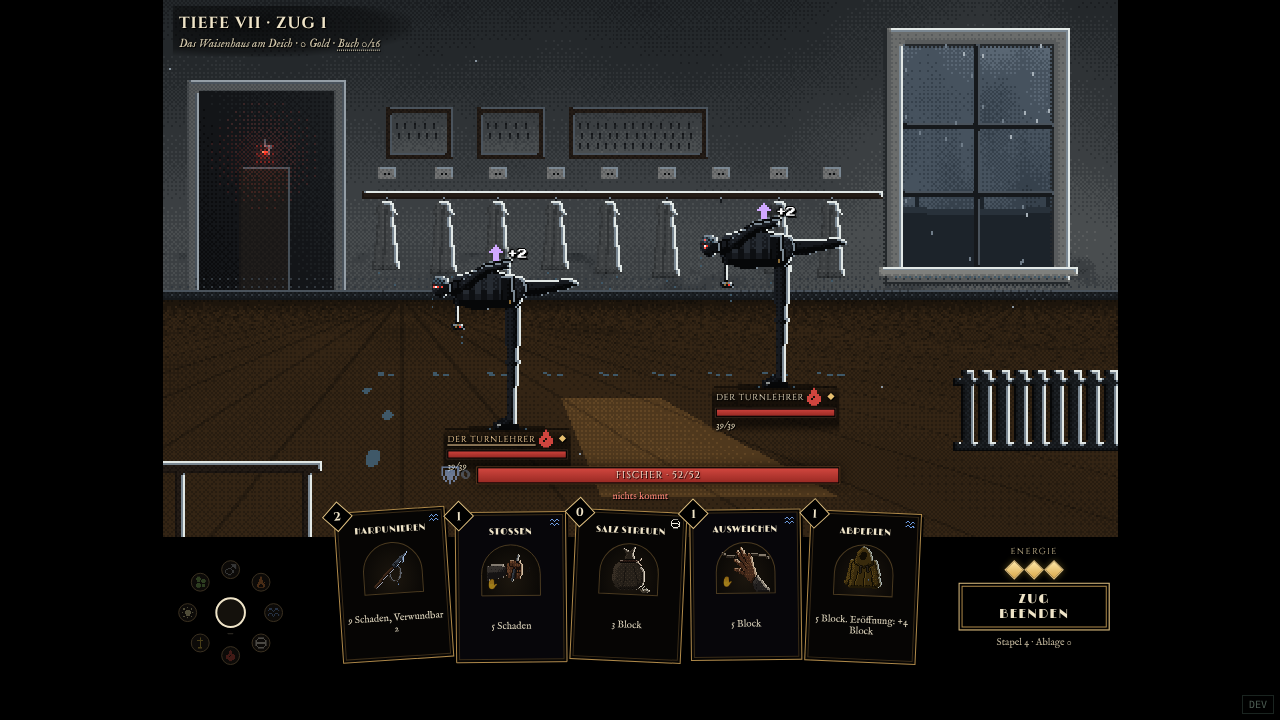
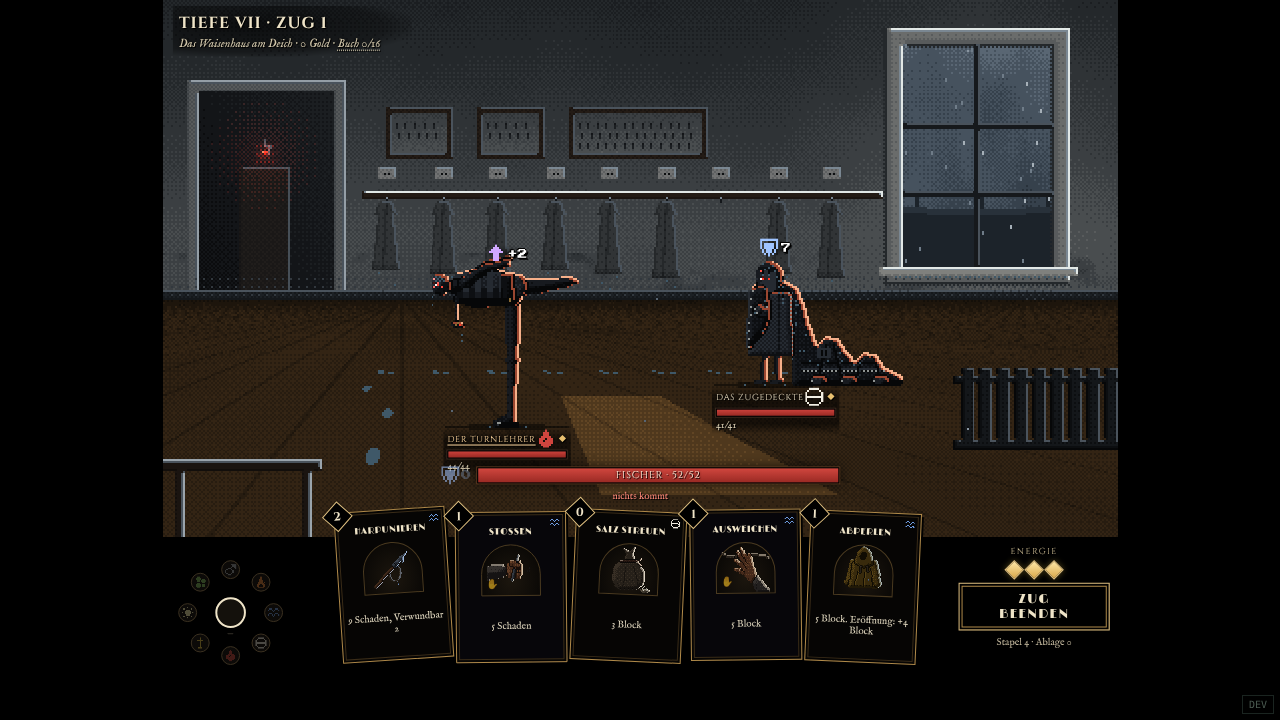
Zugabe: Waisenhaus fertig (Note 4, warmes Randlicht im Kampf); Akt V mit Wahl Rast oder Ereignis; Noten Waage
Generischer Bot danach 56 % (100 Seeds).

Claude-Session: https://claude.ai/code/session_01TghvEfjLh3w7y1uAeKR46M

diff --git a/prototype/js/scenes/world/waisenhaus.js b/prototype/js/scenes/world/waisenhaus.js
@@ -210,9 +210,9 @@ function schlafsaal(K, cfg) {
   const n = cfg.dunkel ? 0 : 2 + Math.round(fr * 5);
   for (let i = 0; i < n; i++) { const X = -1.3 + i * 0.45 + (i > 2 ? 0.95 : 0); const [x, y] = Q(P, X, 0, ze - 0.4); kind(K, 2, Math.round(x), Math.round(y), 21 + (i % 2) * 2, 0.15); }
   // Vordergrund: links das Fußteil eines Betts angeschnitten, rechts ein Stuhl mit gefalteter Wäsche
-  { const v = B.maske(); v.rect(-M, 196, 54, 5); v.rect(-M, 214, 54, 4); v.rect(46, 192, 5, H + M - 192); for (let i = 0; i < 4; i++) v.rect(4 + i * 12, 201, 3, 13); K.form(5, v, 0, { k: EISEN, r: RAND, ton: 2, fase: 1, rand: 2 }); }
-  { const v = B.maske(); v.rect(436, 226, 40, 5); v.rect(440, 231, 4, 40); v.rect(468, 231, 4, 40); v.rect(468, 176, 4, 50); v.rect(466, 176, 8, 4); K.form(5, v, 0, { k: HOLZ, r: RAND, ton: 2.6, fase: 1, rand: 2 });
-    const w = B.maske(); w.rect(440, 218, 26, 8); w.rect(442, 214, 22, 4); K.form(5, w, 0, { k: LEINEN, r: RAND, ton: 2.4, fase: 1, rand: 1 }); }
+  { const v = B.maske(); v.rect(-M, 196, 54, 5); v.rect(-M, 214, 54, 4); v.rect(46, 192, 5, H + M - 192); for (let i = 0; i < 4; i++) v.rect(4 + i * 12, 201, 3, 13); K.form(5, v, 0, { k: EISEN, r: RAND_D, ton: 2, fase: 1, rand: 2 }); }
+  { const v = B.maske(); v.rect(436, 226, 40, 5); v.rect(440, 231, 4, 40); v.rect(468, 231, 4, 40); v.rect(468, 176, 4, 50); v.rect(466, 176, 8, 4); K.form(5, v, 0, { k: HOLZ, r: RAND_D, ton: 2, fase: 1, rand: 2 });
+    const w = B.maske(); w.rect(440, 218, 26, 8); w.rect(442, 214, 22, 4); K.form(5, w, 0, { k: LEINEN, r: RAND_D, ton: 1.9, fase: 1, rand: 1 }); }
   B.nebel(K.e[1], { y0: vy - 30, y1: vy + 8, col: B.mix(pal.nebel[1], K.fern, 0.4), dichte: 0.18, xs: [-20, 500, 60], seed: 3 });
   luft(K);
   K.reihen = [{ y: 166, skala: 0.9, nebel: 0.25 }, { y: 190, skala: 1, nebel: 0.1 }, { y: 213, skala: 1, nebel: 0 }];
@@ -279,7 +279,7 @@ function flur(K, cfg) {
   // Sockelleiste
   { const l = B.maske(); l.rect(-M, vy - 4, W + 2 * M, 5); K.form(1, l, 0, { k: SOCKEL, r: RAND_D, ton: 2.6, fase: 1, rand: 1 }); }
   // Vordergrund: links eine Bank angeschnitten, rechts der Heizkörper unter dem Fenster
-  { const v = B.maske(); v.rect(-M, 232, 92, 6); v.rect(6, 238, 5, 40); v.rect(70, 238, 5, 40); K.form(5, v, 0, { k: HOLZ, r: RAND, ton: 2.6, fase: 1, rand: 2 }); }
+  { const v = B.maske(); v.rect(-M, 232, 92, 6); v.rect(6, 238, 5, 40); v.rect(70, 238, 5, 40); K.form(5, v, 0, { k: HOLZ, r: RAND_D, ton: 2, fase: 1, rand: 2 }); }
   { const v = B.maske(); for (let i = 0; i < 9; i++) v.rect(402 + i * 9, 186, 6, 40); v.rect(398, 222, 86, 4); v.rect(398, 190, 86, 3); K.form(4, v, 0, { k: EISEN, r: RAND_D, ton: 1.8, fase: 1, rand: 1, schatten: 1 }); }
   B.nebel(K.e[1], { y0: vy - 14, y1: vy + 8, col: B.mix(pal.nebel[1], K.fern, 0.4), dichte: 0.12, xs: [-20, 500, 60], seed: 5 });
   luft(K);
@@ -332,8 +332,8 @@ function turnsaal(K, cfg) {
   K.bodenStoffe(vy + 1, H + M, mats, (x, y) => { const Z = P.z(y + 0.5), X = (x + 0.5 - P.vx) * Z / P.h; if (X < xl || X > xr) return -1; for (const s of nass) { const dx = (X - s[0]) / s[2], dz = (Z - s[1]) / (s[2] * 1.9); if (dx * dx + dz * dz < 1) return 1; }
     for (const [kx, kz] of kreide) for (const s of [-0.07, 0.07]) { const dx = (X - kx - s) / 0.06, dz = (Z - kz) / 0.12; const d = dx * dx + dz * dz; if (d < 1.2 && d > 0.55) return 2; } return 0; });
   // Vordergrund: links ein Seil, das bis in den Boden hängt; unten eine Matte angeschnitten
-  { const v = B.maske(); v.rect(40, -M, 3, 210 + M); v.ell(41, 214, 5, 3); K.form(5, v, 0, { k: HOLZ, r: RAND, ton: 2.8, fase: 0, rand: 2 }); }
-  { const v = B.maske(); v.poly([[300, H + M], [318, 246], [480 + M, 244], [480 + M, H + M]]); K.form(5, v, 0, { k: DECKE, r: RAND, ton: 2.4, fase: 2, rand: 2, muster: (x, y) => ((x + y) % 7 === 0 ? -0.6 : 0) }); }
+  { const v = B.maske(); v.rect(40, -M, 3, 210 + M); v.ell(41, 214, 5, 3); K.form(5, v, 0, { k: HOLZ, r: RAND_D, ton: 2.8, fase: 0, rand: 2 }); }
+  { const v = B.maske(); v.poly([[300, H + M], [318, 246], [480 + M, 244], [480 + M, H + M]]); K.form(5, v, 0, { k: DECKE, r: RAND_D, ton: 1.9, fase: 2, rand: 2, muster: (x, y) => ((x + y) % 7 === 0 ? -0.6 : 0) }); }
   // rotes Licht: über der Tür der Umkleide links hinten
   { const [x, y] = Q(P, -3.4, 1.6, ze); nachtlicht(K, Math.round(x), Math.round(y), 0, { r: 26 }); const tm = B.maske(); tm.poly([Q(P, -3.8, 0, ze), Q(P, -3.8, 1.4, ze), Q(P, -3.0, 1.4, ze), Q(P, -3.0, 0, ze)]); K.form(0, tm, 0.2, { k: HOLZ, r: RAND_D, ton: 1.6, fase: 1, rand: 1 }); }
   B.nebel(K.e[1], { y0: vy - 24, y1: vy + 8, col: B.mix(pal.nebel[1], K.fern, 0.4), dichte: 0.15, xs: [-20, 500, 60], seed: 7 });

diff --git a/docs/auftrag-2/biome/waisenhaus.md b/docs/auftrag-2/biome/waisenhaus.md
@@ -17,7 +17,7 @@ Hinter Saltmoor, oben auf dem Deich, steht das Waisenhaus von 1890: zwei Stockwe
 
 - **Wahrzeichen:** der Schlafsaal: vierzig Eisenbetten in zwei Reihen, gemacht, die Decken auf Kante, über jedem Bett ein Emailschild mit einer Nummer.
 - **Falsches Detail:** Beim Appell antworten mehr Kinder, als Betten da sind, und alle haben nasses Haar. Im Bild: Die Nummernschilder an der Stirnwand gehen weiter, wo keine Betten mehr stehen, bis unter die Decke, und darunter stehen die, für die kein Bett da ist (mit `fremdheit` mehr). Auf jedem Kissen ein nasser Fleck in der Größe eines Kopfes. Nasse Fußspuren führen von der Tür zu den Betten, nicht von ihnen weg. Nie erklärt.
-- **Palette:** kaltes Kalkweiß und Sturmgrau (Wände, Fensterlicht), Linoleum-Ocker (Boden, dunkel), Eisen fast schwarz. **Ein einziges rotes Licht:** das Nachtlicht in rotem Glas über der Tür zum Schlafsaal (in jeder Variante genau eins). Sprites: Körper Sturmgrau (`#060708 … #252a31`), Randlicht kaltes Kalkweiß (`#7a8792` / `#e2e8e6`), Augen rot (`#ff3b2b`, Kern `#fff4ee`), dazu sparsam `kalk` (Leinen), `ocker` (Messing), `nass` (Wasserglanz).
+- **Palette:** kaltes Kalkweiß und Sturmgrau (Wände, Fensterlicht), Linoleum-Ocker (Boden, dunkel), Eisen fast schwarz. **Ein einziges rotes Licht:** das Nachtlicht in rotem Glas über der Tür zum Schlafsaal (in jeder Variante genau eins). Sprites: Körper Sturmgrau (`#060708 … #252a31`), **Randlicht warm, Rot-Ocker vom Nachtlicht** (`#9a4630` / `#f6b08a`): ein Ton, der im kalten, grauen Hintergrund nirgends vorkommt, damit die Gegner sich vom Mittelgrund lösen. Augen rot (`#ff3b2b`, Kern `#fff4ee`), dazu sparsam `kalk` (Leinen), `ocker` (Messing), `nass` (Wasserglanz). Der Hintergrund behält sein kaltes Randlicht; Betten, Sprossenwand, Seile, Nachthemden am Haken und Vordergrund sind dort gedämpft (dunkle Massen, schwache Kanten), die Fenster sitzen über der Gegner-Zone.
 - **Abgrenzung im Akt:** Kapelle = Bernstein und grünes Wasserlicht, Kloster = Pergament und Silberhimmel, Grotte = Wachsgelb und Kerzenrot auf Schiefer, Glockengießerei = Rot und Schwarz mit Licht von unten. Das Waisenhaus ist der einzige **kalte, graue, trockene Innenraum** des Akts: gerade Linien, Wiederholung (Betten, Haken, Schilder, Fußpaare), hohe Fenster als Lichtquelle von der Seite, und statt vieler Lichter nur das eine rote. Keine Gewölbe, kein Wasser im Bild, nur Nässe.
 - **Licht:** Das Gegenlicht von oben rechts sind die Fenster (Sturmlicht). Es fällt als helle Rechtecke auf das Linoleum und die linke Wand. Das rote Nachtlicht sitzt immer hinten oder seitlich, klein.
 - **Krämer:** Der Hausmeister, im Heizungskeller zwischen Koks und einem Regal mit Fundsachen der Kinder, an jeder ein Zettel mit einer Nummer. Gewöhnlicher Krämer (Tausch, Leihe und Spiegel gibt es im Akt schon).
@@ -178,10 +178,10 @@ Je Punkt 1–5: Silhouette / Licht / Pixel / Konzept / Biom / Im Spiel. Gesamt =
 
 | Bild | S | L | P | K | B | Sp | Gesamt | Begründung |
 |---|---|---|---|---|---|---|---|---|
-| Nachtschwester | 5 | 4 | 4 | 4 | 5 | 4 | **4** | Der Ring mit dem Loch in der Mitte und den Schlüsseln wie Zähnen gibt es sonst nicht; die helle Haube und der Kragen gliedern die Figur, die Schürze hebt sich ab. Das Kleid bleibt rechts eine große dunkle Fläche, nur von drei Falten gegliedert; die Haube ist als 50-%-Dither leicht unruhig. |
+| Nachtschwester | 5 | 4 | 4 | 4 | 5 | 4 | **4** | Der Ring mit dem Loch in der Mitte und den Schlüsseln wie Zähnen gibt es sonst nicht; Haube und Kragen in hellem Leinen, Schürze, Saumband und warme Innenkanten gliedern die Figur. Das Kleid bleibt rechts die größte dunkle Fläche. |
 | Turnlehrer | 5 | 4 | 4 | 4 | 4 | 5 | **4** | Die stärkste Silhouette des Bioms: ein „T“ auf einem zu langen Bein, im Spiel sofort lesbar, der Angriff kippt den ganzen Leib wie einen Hammer. Das Ringelhemd ist im Spiel nur als feine Streifen zu sehen, das Gesicht klein; dass er Turnlehrer war, sagt vor allem die Pose. |
 | Das Zugedeckte | 4 | 4 | 4 | 4 | 5 | 4 | **4** | Erst im dritten Anlauf (Fels, Gespenst, dann Kind mit Schleppe): Jetzt liest sich ein Kind, hinter dem die Decke über Buckel schleift, mit Händen am Saum. In der hinteren Reihe ist es klein, die Hände sind dann nur noch helle Punkte. |
-| Die Zwillinge | 4 | 4 | 4 | 4 | 5 | 4 | **4** | Knapp. Zwei Kinder Hand in Hand mit einem einzigen langen Schatten; im Spiel liest sich der Schatten auf dem Ocker-Linoleum gut, auf dunklem Grund kaum. Nach einer Überarbeitung (größer, Gesicht frei, Haar nur hinten) keine Kapuzen-Mönche mehr; die Gesichter bleiben klein. |
+| Die Zwillinge | 4 | 4 | 4 | 4 | 5 | 4 | **4** | Knapp. Zwei Kinder Hand in Hand mit einem einzigen langen Schatten; im Spiel liest sich der Schatten auf dem Ocker-Linoleum gut, auf dunklem Grund kaum. Nach zwei Überarbeitungen (größer, Gesicht frei, Haar nur hinten; warmes Randlicht, Saum und Knopfleiste) stehen sie nicht mehr grau auf grau vor den Betten; die Gesichter bleiben klein. |
 | Heimleiterin (Wächter) | 5 | 5 | 4 | 5 | 5 | 5 | **4** | Im Spiel steht sie dunkel vor dem ruhigen, hellen Bogenfenster, die klarste Stelle des Bioms; die Reihe der Kinder daneben erzählt den Appell ohne Text. Pixel 4: Der Rock ist trotz Falten und breiter Lichtkante eine große Fläche, das Buch ist eher eine Schraffur als Schrift. |
 | Hintergrund V0 Schlafsaal | 4 | 4 | 4 | 5 | 5 | 4 | **4** | Zwei Reihen Betten mit Kissen und nassen Flecken, Fenster mit Regen, hinten die Nummern ohne Betten und die Wartenden: Wahrzeichen und falsches Detail ohne Text. Der Gang unten ist trotz Läufer und Spuren eine ruhige braune Fläche, das nächste Bett links wirkt flach. |
 | Hintergrund V1 Flur | 5 | 4 | 4 | 5 | 5 | 4 | **4** | Die stärkste Variante: Hakenleiste mit Nachthemden, Nummern, das zu breite Foto von 1913, Fenster zum Deich, das rote Licht in der Tür. Der Boden davor ist leer bis auf Spuren und Lichtfleck. |
@@ -190,6 +190,8 @@ Je Punkt 1–5: Silhouette / Licht / Pixel / Konzept / Biom / Im Spiel. Gesamt =
 | **Hintergrund gesamt** | | | | | | | **4** | |
 | Item-Icons | | | | | | | **4** | Pfeife mit Schnur und Tropfen, Ring mit Schlüsseln (einer aus Messing), gefaltetes Nachthemd mit roter Nummer und nasser unterer Hälfte, aufgeschlagenes Folio mit Messingecken. Die rote Tinte im Buch ist bei 32 px nicht zu sehen. |
 | Ereignisbilder | | | | | | | **4** | Fenster zum Deich, Wäschekammer und Nachtlicht klar (je eine helle Stelle, viel Fläche); Schlafsaal und Turnsaal knapp (Betten und Kreide fein); die Reihe erst nach Überarbeitung (Kinder vorher als Haken lesbar, jetzt größer und breiter). |
+
+**Nacharbeit nach Rückmeldung (Kampf-Foto 3,5, „grau auf grau“):** Randlicht der Figuren von kaltem Kalkweiß auf warmes Rot-Ocker umgestellt (kommt im Hintergrund nicht vor), Kleider innen weiter gegliedert (Saumband, Knopfleiste, Leinen statt Randlicht-Dither in Haube und Kragen); im Hintergrund Bettgestelle, Decken, Kissen, Sprossenwand, Seile, Pferd, Nachthemden am Haken, Heizkörper und alle Vordergrundteile gedämpft (dunkle Massen, schwache Kanten), Fenster im Schlafsaal und Turnsaal höher, Lichtflecken auf der linken Wand über die Gegner-Zone gelegt. Alle drei Kampf-Varianten mit allen vier Gegnern: [im-spiel-kampf-alle-vier.png](../bilder/Zugabe/waisenhaus/im-spiel-kampf-alle-vier.png) (Schlafsaal), [-v1](../bilder/Zugabe/waisenhaus/im-spiel-kampf-alle-vier-v1.png) (Flur), [-v2](../bilder/Zugabe/waisenhaus/im-spiel-kampf-alle-vier-v2.png) (Turnsaal). Im Spiel jetzt 4: Jeder Gegner hat eine warme Kontur, die vor dem grauen Saal sofort steht.
 
 Nichts unter 4. Überarbeitet wurden unterwegs: Nachtschwester (Haube dunkel wie eine Kapuze → helles Leinen; Schürzenkante als durchgehende Naht → gedithert; Idle unruhig), Turnlehrer (Bein ragte aus dem Bild, Schnur unsichtbar), Zugedecktes (zweimal neu, siehe oben; Lichtfarben über 6 %, Idle unruhig), Zwillinge (Kapuzen-Mönche → Kinder; größer), Heimleiterin (Kinder als Block, Hals zu lang, Buch als Gitter, Idle unruhig), Hintergrund (Boden übermalte Betten, Wände fehlten unten, Raum zu breit und leer, Stirnwand zu fern, Kinder dort unsichtbar, Sprossenwand wie ein Zaun, Bogensprosse als Heiligenschein hinter dem Kopf der Heimleiterin).
 

diff --git a/docs/auftrag-2/fortschritt.md b/docs/auftrag-2/fortschritt.md
@@ -16,7 +16,7 @@ Wird vom Agenten geführt. Neueste Einträge oben in jedem Abschnitt.
 | M7 Biome Akt III bis V | fertig | Wald, Gezeitenwerk (Akt III), Walkathedrale, Glasmeer (Akt IV), Ufer unten, Pforte neu, Finale neu (Akt V); neue Gegner Salz, Stadt, Eis; alle Noten 4. Kern: Kniffe teurer/kopie/takt/voraus/verborgen, Pendel, Tausch-/Leih-/Spiegel-Krämer, Vorgänger, Ergänzungspakete |
 | M8 Ereignisse und Balance | fertig | ≥5 Ereignisse je Biom, 15 biomübergreifende, Test aller Wahlen; Builds 44–72 % (Ø 59 %), generischer Bot 65 %, kein Akt über 35 % der Niederlagen; Kampf Ø 4,1–4,5 Züge |
 | M9 Abschluss | fertig | Geklickter Run (40 Stationen), Galerie und Artboard erweitert, Bericht unten |
-| Zugabe | läuft | Punkte 1–4 der Liste erledigt: vier neue Biome (Leuchtturmhof, Glockengießerei, Ziegelgruben, Mond), Varianten b vollständig, alle 133 Ereignisse mit Bild (Note 4), zwei neue Builds Ballast und Kollekte mit 10 Reliquien. Kern: `unverw`, `ruf` mit Liste, nächste Schwachstelle, Störkarten-Name. Weiter: drei Biome Waisenhaus (II), Funkstation (IV), Waage am Grund (V) |
+| Zugabe | läuft | Punkte 1–4 der Liste erledigt, dazu drei weitere Biome: Waisenhaus am Deich (II), Funkstation am Pol (IV), Die Waage am Grund (V, mit Elite und Finale-Szene). Jetzt 24 Biome, alle Note 4; alle 151 Ereignisse mit Bild; 8 Builds 40–62 %; Akt V mit Ereignis-Knoten |
 
 ## Einträge je Meilenstein
 
@@ -217,6 +217,12 @@ Allgemeiner Autospieler 30 Seeds: 47 %. **Korrigierte Ausreißer:** Brackwasser 
 | Funkstation: Funker, Telegrafistin, Mastkletterer, Rauschen (neu) | Funkstation | 4 (nach Rückmeldung: kaltes Randlicht statt Sepia, im Kampf vorher 3,5) | [Zugabe](bilder/Zugabe/funkstation/im-spiel-kampf-alle-vier.png) |
 | Der Sender, zwei Phasen, Funkstille unverwundbar (Wächter, neu) | Funkstation | 4 (vor heller Fensterwand klar) | [Zugabe](bilder/Zugabe/funkstation/im-spiel-waechter-p2.png) |
 | Hintergrund Funkstation (Mast, Funkraum, Eisloch, Senderaum) + 6 Ereignisbilder | Funkstation | 4 (Funkraum jetzt karger, dafür ruhig hinter den Gegnern) | [Zugabe](bilder/Zugabe/funkstation/hintergrund-varianten.png) |
+| Waisenhaus: Nachtschwester, Turnlehrer, Zugedecktes, Zwillinge (neu) | Waisenhaus | 4 (nach Rückmeldung: warmes rotes Randlicht statt Kalkweiß, im Kampf vorher 3,5) | [Zugabe](bilder/Zugabe/waisenhaus/im-spiel-kampf-alle-vier.png) |
+| Die Heimleiterin mit der Kinderreihe (Wächter, neu) | Waisenhaus | 4 (dunkel vor hellem Bogenfenster) | [Zugabe](bilder/Zugabe/waisenhaus/im-spiel-waechter.png) |
+| Hintergrund Waisenhaus (Schlafsaal, Flur der Nummern, Turnsaal, Halle) + 6 Ereignisbilder | Waisenhaus | 4 | [Zugabe](bilder/Zugabe/waisenhaus/hintergrund-varianten.png) |
+| Waage am Grund: Schlagbaum, Schreiber, Tarierte, Warteschlange (neu) | Waage | 4 (im Kampf gut lesbar, goldenes Randlicht vor grünem Wasserlicht) | [Zugabe](bilder/Zugabe/waage/im-spiel-kampf.png) |
+| Der Oberzöllner (Elite Akt V, neu) | Waage | 4 (Waage auf dem Kopf, ruft die Beamten) | [Zugabe](bilder/Zugabe/waage/im-spiel-elite-ruft.png) |
+| Hintergrund Waage (Halle, Schalter, Unter der Schale, Finale, Ankunft) + 6 Ereignisbilder | Waage | 4 (Finale: türkiser Boss vor hellem Skalenbogen stark; Rast ohne eigene Komposition) | [Zugabe](bilder/Zugabe/waage/im-spiel-finale.png) |
 | Reliquien Ballast und Kollekte (10), Bleigürtel, Geldkatze, Handgriffe Beschweren, Münzwurf (neu) | alle | 4 (knapp: Ballaststein schlichtes Oval, Fährgeld erinnert an Mond, Hand bei Beschweren krallig) | [Zugabe](bilder/Zugabe/reliquien/kontaktbogen.png) |
 | Ereignisbilder Charge 1: 15 biomübergreifende, 6 Hafen (neu) | alle, Hafen | 4 (Kreidezeichen eher grafisch; Hafen etwas gleichförmig nachtblau) | [Zugabe](bilder/Zugabe/ereignisse/kontakt-1.png) |
 | Ereignisbilder Akt I: Moor 5, Fabrik 7, Kurhaus 6, Nachtzug 7, Leuchtturm 7 (neu) | Akt I | 4 (selbst geprüft; stark: Kühlhaus, Kontrolle, Gedeck; knapp: Kurve, Lupe) | [Zugabe](bilder/Zugabe/ereignisse/kontakt-2-fabrik.png) |
@@ -228,6 +234,7 @@ Allgemeiner Autospieler 30 Seeds: 47 %. **Korrigierte Ausreißer:** Brackwasser 
 
 | Datum | Meilenstein | Entscheidung | Grund |
 |---|---|---|---|
+| 2026-11-05 | Zugabe | Akt V: zweite Ebene `rast_v` = Wahl Rast oder Ereignis (vorher nur Rast) | Akt V hatte keinen Ereignis-Knoten; die Ereignisse von Ufer und Waage (und Pforte über die allgemeinen) kamen im normalen Run nie vor (Hinweis des Waage-Agenten) |
 | 2026-11-05 | Zugabe | Wächter-Reliquien: eine der drei passt zum erkannten Build (über ihre Eigenschaft), die anderen frei. Danach Build-Bots je 50 Seeds: Glutnest 52, Brackwasser 40, Bollwerk 50, Aderlass 52, Kettenwerk 48, Hagel 50, Ballast 50, Kollekte 62 %; generischer Bot 60 % | Mit 39 Reliquien kamen die eigenen Reliquien der alten Builds zu selten (Brackwasser 34 %, Kettenwerk 38 %). Jetzt alle acht in oder knapp über 40–60 %, keiner über 70 %, die Erkennung ist gestiegen (44–84 %) |
 | 2026-11-05 | Zugabe | Zwei neue Builds Ballast (unspielbare Karten als Treibstoff) und Kollekte (Gold im Kampf, Schlagwort Zoll) mit 10 Reliquien; Brackwasser (34 %) und Kettenwerk (38 %) danach knapp unter 40 % gelassen | Ziel 04-deckbau §9: 40–60 %, keiner unter 25 %. Der größere Reliquien-Pool (29 → 39) verdünnt die alten Builds; neue Builds 46 % und 56 %, generischer Bot 61 %. Nachziehen wäre eine Gewichtung der Reliquien-Angebote nach erkanntem Build; vorerst offen |
 | 2026-11-05 | Zugabe 4 | Zwei neue Builds Ballast (unspielbare Karten als Treibstoff) und Kollekte (Gold als Treibstoff), je 5 Reliquien und 2 normale Stücke; neue Schlagworte `zoll`, `gold`, Sonder `ueber_bord`, fx `ballast`; Build-Erkennung zählt jetzt die Eigenschaften aller Items (Reliquie 7, sonst 1,5), nicht nur die neuen | Die 10 neuen Reliquien verdünnen den Pool (29 → 39) und senkten die Erkennung der alten Builds um bis zu 24 Punkte; eine Reliquie definiert laut 04 §3 den Build. Profile der neuen Builds nur mit ihren eigenen Stücken, weil die Bots mit schwachen Allerweltsitems im Profil unter 35 % fielen. Details [builds.md](builds.md) Abschnitt 10–11 |
